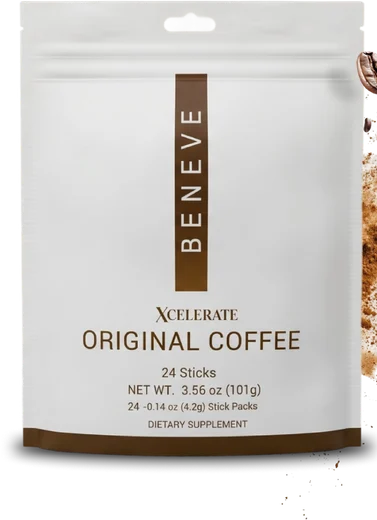
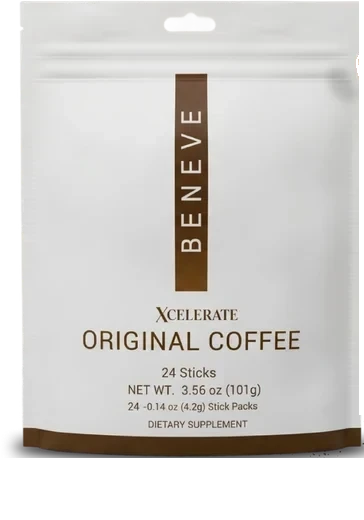
👀 Beneve 15-Minute Morning confirmation: the bonus screen shows the Morning Supplement Guide's real cover with the three products in front (Jeff 2026-11-17), every name readable; the coffee and Glutathione+ cutouts lose the grounds and capsules at their edges. Scope: only Beneve platform accounts wi

diff --git a/beneve/beneve-15-minute-morning/b-morning-confirmation-reel/block.html b/beneve/beneve-15-minute-morning/b-morning-confirmation-reel/block.html
@@ -11,7 +11,7 @@
      is the rep's 🎁 alert (migration's "Beneve - 15-Minute Morning - Supplement Guide Request"), once per lead.
   ⚠ NO VIDEO YET: screen 2 shows the three products where the Blueprint shows its video. When one is recorded, put the
      Blueprint's .rlb-vidbox markup back here with two new content values.
-  The pack shots are Beneve's own (BENEVESHARK/product-pages), cut out; three.webp lays them side by side so every name reads.
+  The pack shots are Beneve's own (BENEVESHARK/product-pages), cut out; guide-mock.webp (BENEVESHARK/campaigns/morning-15/_build/guide-mock.mjs) stands them in front of the supplement guide's real cover, every name readable.
 -->
 <div class="rl rl-look-planner rl-m15 rlg" data-pf-native data-pf-dock="Swipe up for a bonus 🎁" data-rl-claim="/b-morning-supplement-request" data-pf-arrive="#FBF6EE">
   <div class="rl-frame">
@@ -38,12 +38,12 @@
         </div>
       </section>
 
-      <!-- 2. DARK: the bonus. The three products on top, the bonus card, the claim. -->
+      <!-- 2. DARK: the bonus. The guide mockup with the three products (guide-mock.webp, Jeff 2026-11-17: "put the supplement guide mockup on the confirmation page where the supplements are"), the bonus card, the claim. -->
       <section class="rl-p rl-night rl-plain rlb rlb-bonus" aria-label="Your bonus">
         <div class="rl-in">
           <div class="rlb-vidbox m15c-prodbox">
-            <img class="m15c-three" src="/_p/beneve/beneve-15-minute-morning/b-morning-confirmation-reel/assets/three.webp" width="741" height="420"
-                 alt="Xcelerate Original Coffee, Glutathione+ and Electrolytes">
+            <img class="m15c-three" src="/_p/beneve/beneve-15-minute-morning/b-morning-confirmation-reel/assets/guide-mock.webp" width="680" height="598"
+                 alt="The Morning Supplement Guide, with Xcelerate Original Coffee, Glutathione+ and Electrolytes">
           </div>
           <div class="rlb-coupon" data-in style="--d:.15s">
             <span class="rlb-tag">Bonus offer</span>
@@ -69,9 +69,9 @@
           </ul>
           <a class="rlb-btn" data-in style="--d:.45s" data-rl-claim-open href="/b-morning-supplement-request">🎁 YES! Text me the guide + more info</a>
           <div class="m15c-recs" data-in style="--d:.5s">
-            <div class="rlb-rec"><img class="rlb-rec-img" src="/_p/beneve/beneve-15-minute-morning/b-morning-confirmation-reel/assets/glut.webp" width="314" height="520" alt="A bottle of Glutathione+">
+            <div class="rlb-rec"><img class="rlb-rec-img" src="/_p/beneve/beneve-15-minute-morning/b-morning-confirmation-reel/assets/glut.webp" width="276" height="520" alt="A bottle of Glutathione+">
               <div class="rlb-rec-t"><p class="rlb-rec-h">Glutathione+</p><p>An antioxidant blend featuring Glutathione, DIM, and Xanthohumol.</p></div></div>
-            <div class="rlb-rec"><img class="rlb-rec-img" src="/_p/beneve/beneve-15-minute-morning/b-morning-confirmation-reel/assets/coffee.webp" width="377" height="520" alt="A pouch of Xcelerate Original Coffee">
+            <div class="rlb-rec"><img class="rlb-rec-img" src="/_p/beneve/beneve-15-minute-morning/b-morning-confirmation-reel/assets/coffee.webp" width="364" height="520" alt="A pouch of Xcelerate Original Coffee">
               <div class="rlb-rec-t"><p class="rlb-rec-h">Xcelerate Original Coffee</p><p>A full-strength nootropic coffee that provides smooth, sustained energy and enhanced focus.</p></div></div>
             <div class="rlb-rec"><img class="rlb-rec-img" src="/_p/beneve/beneve-15-minute-morning/b-morning-confirmation-reel/assets/lytes.webp" width="397" height="520" alt="A pouch of Electrolytes">
               <div class="rlb-rec-t"><p class="rlb-rec-h">Electrolytes</p><p>Replenishes essential minerals like sodium, potassium, and magnesium.</p></div></div>

diff --git a/beneve/beneve-15-minute-morning/b-morning-confirmation-reel/block.css b/beneve/beneve-15-minute-morning/b-morning-confirmation-reel/block.css
@@ -223,7 +223,7 @@
 .rl-look-planner .mbc-env .mbc-body,.rl-look-planner .mbc-env .mbc-fold{ stroke:var(--ember); }
 .rl-look-planner .mbc-env .mbc-flap{ fill:var(--sand); stroke:var(--ember); }
 .m15c-prodbox{ container-type:normal; align-items:flex-end; }
-.m15c-three{ display:block; width:100%; max-width:340px; height:auto; margin:0 auto 14px; filter:drop-shadow(0 18px 24px rgba(0,0,0,.35)); }
+.m15c-three{ display:block; width:100%; max-width:380px; height:auto; margin:0 auto 14px; filter:drop-shadow(0 18px 24px rgba(0,0,0,.35)); }
 .m15c-recs{ display:grid; gap:8px; }
 .m15c-recs .rlb-rec{ margin-top:0; }
 .rlb-guide h2{ margin:4px 0 6px; }
